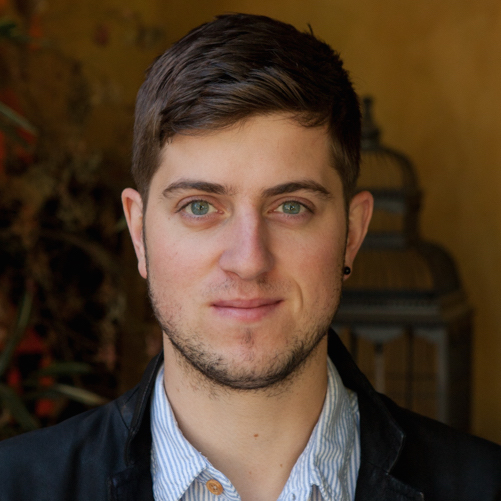
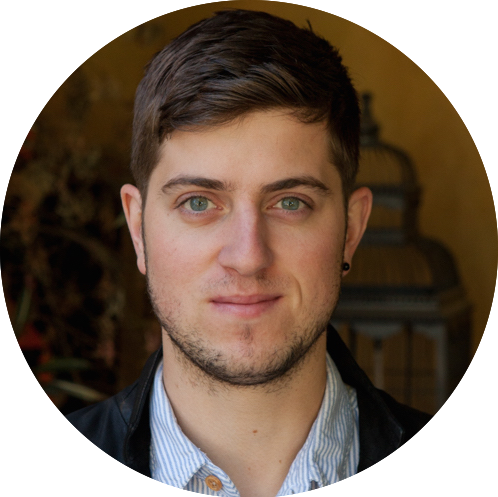
updating profile image, contact info, first blog post image

diff --git a/_includes/contact_static.html b/_includes/contact_static.html
@@ -9,7 +9,7 @@
 		</div>
 		<div class="row">
 			<div class="col-lg-8 col-lg-offset-2">
-				<form  action="//formspree.io/you@email.com" method="POST" name="sentMessage" id="contactForm" novalidate>
+				<form  action="//formspree.io/lucasramadan@gmail.com" method="POST" name="sentMessage" id="contactForm" novalidate>
 					<div class="row control-group">
 						<div class="form-group col-xs-12 floating-label-form-group controls">
 							<label>Name</label>
